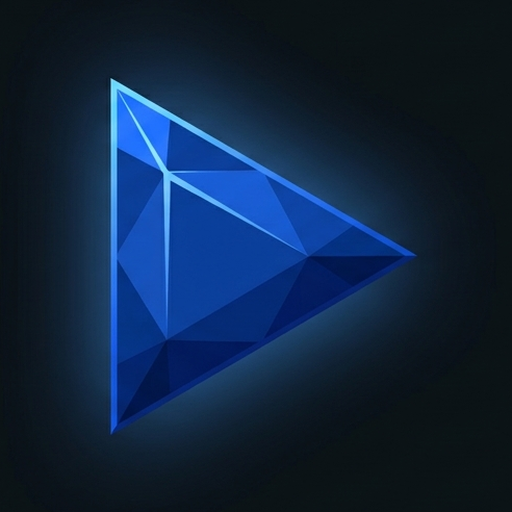
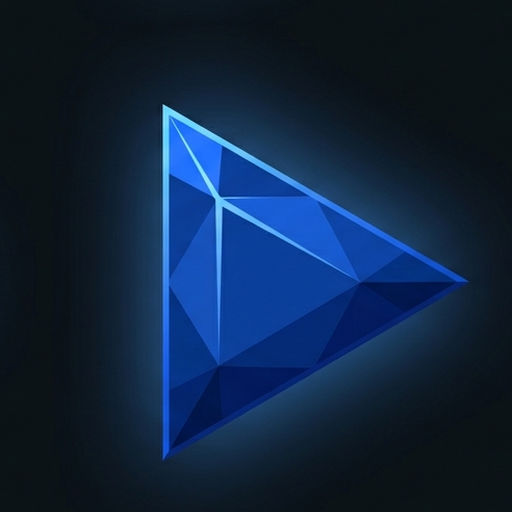
source citation: place over final 3s instead of fade-in at TITLE_SWAP
CREDIT_TAIL (default 3.0s) replaces the swap-timed citation in brand-overlays
and source-credit; cold-open title now owns the top banner uncontested at the
open and the citation lands on the closing beat.

diff --git a/CLAUDE.md b/CLAUDE.md
@@ -108,8 +108,8 @@ source video
         → broll-composite              (full-frame hard-cut cutaways onto the vertical clip, saliency-cropped not center; podcast audio continuous, no transition SFX by default — BROLL_SFX=1 re-enables a whoosh on each cutaway in/out)
         → burn-subtitles               (chunk-karaoke PNG overlay, RMS-aligned, burned ON TOP of the b-roll)
         → sfx-beats (comedy)           (Claude marks punchline/irony/insight beats → vine boom / record scratch / ding; zero beats on non-comedic clips → passthrough; SFX_COMEDY=0 skips)
-        → generate-title + title-transition (Claude title ≤7 words ALL-CAPS → animated COLD-OPEN title in the span's title_style, rendered in the TOP banner over the LIVE opening footage — no blocking card; the style's OWN matched SFX (slam=riser+boom, glitch=zaps, typewriter=keys, etc.) is mixed under the live audio, TITLE_SFX=0 disables — held until TITLE_SWAP then handed off to the source citation)
-        → brand-overlays               (source-credit TOP chyron y≈4%, fading IN at TITLE_SWAP so the cold-open title owns the top banner first + @C0BALT_CUT watermark y≈97.5% composited in ONE ffmpeg pass; falls back to the standalone source-credit → watermark two-pass path)
+        → generate-title + title-transition (Claude title ≤7 words ALL-CAPS → animated COLD-OPEN title in the span's title_style, rendered in the TOP banner over the LIVE opening footage — no blocking card; the style's OWN matched SFX (slam=riser+boom, glitch=zaps, typewriter=keys, etc.) is mixed under the live audio, TITLE_SFX=0 disables — held until TITLE_SWAP then clears via its own fade-out)
+        → brand-overlays               (source-credit TOP chyron y≈4%, appearing only in the FINAL CREDIT_TAIL seconds [default 3.0s] so it lands on the closing beat and the cold-open title owns the top banner uncontested + @C0BALT_CUT watermark y≈97.5% composited in ONE ffmpeg pass; falls back to the standalone source-credit → watermark two-pass path)
         → loudnorm                     (two-pass to -14 LUFS / -1.5 dBTP)
         → like-subscribe-overlay       (branded CTA — gem avatar + @C0BALT_CUT — ~4s within the FIRST THIRD of the clip + bell SFX)
         → pick-mood + bg-music         (Claude picks ./songs/<mood>/ from clip transcript; bed at ~-18dB, last 5 picks blacklisted via ./songs/.recent)
@@ -132,7 +132,7 @@ source video
 - `broll-pick` anchors are CONTEXTUAL/scene-level, not literal keyword objects — footage must match the story's tone (a tense "red dot" beat wants a sniper/laser sight, NOT a cat laser toy). Vision verify is given the spoken context and rejects literal-but-wrong matches. Aim dense (~6-10 windows where a sensible visual exists). B-roll files are namespaced per clip (`<clip>_broll_NN.<ext>`) in the shared `broll/` dir — NEVER reuse bare `broll_NN.mp4` slot names across spans (cross-span contamination bug).
 - `broll-pick` discovery uses the mcptube-bundled `yt-dlp` ytsearch, NOT `mcptube discover` (the latter needs an LLM API key the stack forbids). Vision verify via Claude; candidate prep (ingest + frame grids) runs CONCURRENTLY and verification is BATCHED — up to `BROLL_BATCH` (default 4) candidates judged per vision round-trip, with `BROLL_VISION_CAP` (default 16) bounding total candidates judged, not calls. Each window gets at most 2 query attempts (original + one literal↔metaphorical rewrite; rewrites are also batched into one call).
 - `broll-cleanup` runs exactly ONCE at end of run, evicting only `video_id`s in each `broll_plan.json`'s `ingested_video_ids` — never the podcast source. It must never modify or delete `broll_plan.json`.
-- `title-transition` is mandatory and runs AFTER `burn-subtitles`, BEFORE the brand overlays. It is a COLD OPEN, NOT a card: the styled title animates in the TOP banner zone (anchor `TITLE_ANCHOR_FRAC`, default 0.135) OVER the live opening footage so frame 1 is content (a face mid-sentence), never a blocking title card — this is the swipe-rate / "Stayed to Watch" fix. Each style carries its OWN matched SFX (slam=riser+boom, typewriter=key clicks, glitch=zaps, bounce=pops+boing, cinematic=swell+thump) — `styles.py` emits the `events.json` cue list and `sfx.py` synthesizes it, mixed UNDER the live audio so the title's sound matches its animation (`TITLE_SFX=0` disables). The old card-era full-screen riser/boom-over-a-blocking-card is gone — this is the animation's own sound, not a card stinger. NO full-frame bg treatment (the old flash/shake/dim shook the live shot). The title holds until `TITLE_SWAP` (default 2.0s, the per-style `dur`) and clears via its own fade-out; `brand-overlays` (and the standalone `source-credit` fallback) then fade the source citation INTO that same top slot at `TITLE_SWAP` so the two time-share the banner. The title text comes from `generate-title`; the animation style comes from the span's `title_style`, assigned by `pick-title-styles` (default `slam` when absent). Five styles — slam (hype), typewriter (true crime), glitch (tech), bounce (comedy), cinematic (documentary) — each a PIL frame sequence. A sixth `news` style was prototyped and CUT after review — do not resurrect it. `pick-title-styles` is best-effort/non-fatal: on any failure spans fall back deterministically and the run continues.
+- `title-transition` is mandatory and runs AFTER `burn-subtitles`, BEFORE the brand overlays. It is a COLD OPEN, NOT a card: the styled title animates in the TOP banner zone (anchor `TITLE_ANCHOR_FRAC`, default 0.135) OVER the live opening footage so frame 1 is content (a face mid-sentence), never a blocking title card — this is the swipe-rate / "Stayed to Watch" fix. Each style carries its OWN matched SFX (slam=riser+boom, typewriter=key clicks, glitch=zaps, bounce=pops+boing, cinematic=swell+thump) — `styles.py` emits the `events.json` cue list and `sfx.py` synthesizes it, mixed UNDER the live audio so the title's sound matches its animation (`TITLE_SFX=0` disables). The old card-era full-screen riser/boom-over-a-blocking-card is gone — this is the animation's own sound, not a card stinger. NO full-frame bg treatment (the old flash/shake/dim shook the live shot). The title holds until `TITLE_SWAP` (default 2.0s, the per-style `dur`) and clears via its own fade-out, owning the top banner uncontested at the open; `brand-overlays` (and the standalone `source-credit` fallback) place the source citation in that same top slot only in the FINAL `CREDIT_TAIL` seconds (default 3.0s) so it lands on the closing beat rather than time-sharing the open. The title text comes from `generate-title`; the animation style comes from the span's `title_style`, assigned by `pick-title-styles` (default `slam` when absent). Five styles — slam (hype), typewriter (true crime), glitch (tech), bounce (comedy), cinematic (documentary) — each a PIL frame sequence. A sixth `news` style was prototyped and CUT after review — do not resurrect it. `pick-title-styles` is best-effort/non-fatal: on any failure spans fall back deterministically and the run continues.
 - `bookend-trim` runs AFTER `verify-coherence` and BEFORE `cut-clip`. It snaps each span's `[t0, t1]` to a clean sentence boundary so shorts don't end mid-sentence (whisper output has punctuation stripped, so Claude infers boundaries — heuristics on `.!?` won't work).
 - `like-subscribe-overlay` runs AFTER `loudnorm` and BEFORE `bg-music`. It overlays a branded animated CTA (channel gem avatar + @C0BALT_CUT handle + subscribe/like/bell choreography) for ~4s WITHIN THE FIRST THIRD of the clip — start clamped so the CTA ends by the 1/3 mark, floored after the ~2.5s title card — so viewers who drop off early never miss it. `like-subscribe-overlay.sh <in> <out> [dur=4.0] [pos=0.15]`.
 - `end-card` runs AFTER `bg-music` and BEFORE `qc-clip`. It fades a closing CTA banner ("FOLLOW FOR MORE" + @C0BALT_CUT, Platinum/Sapphire Impact) over the LAST ~2.5s of the finished short so it lands on an intentional beat instead of dead-stopping on a dangling word — the "ends abruptly / no loop or CTA" retention fix. It is TIMELINE-PRESERVING (overlay only; audio stream-copied, duration identical) and centered at `END_CARD_Y_FRAC` (default 0.60), above the caption band. Deterministic, non-fatal (passthrough on failure), `END_CARD=0` skips.
@@ -142,7 +142,7 @@ source video
 - The caption/accent blue everywhere (burn-subtitles active word, title-transition accent word, source-credit label, watermark zero, CTA accent) is Sapphire Glow `#2E6BFF` from `brand/BRAND.md` — matched to the channel pfp/banner gem. Electric cyan `#00E5FF` is retired; reintroducing it is a regression. All overlay text is Impact (`/System/Library/Fonts/Supplemental/Impact.ttf`) with a thick black stroke.
 - Final shorts are named from the title: `name-short` slugs `generate-title`'s output into `<kebab-title>.mp4`, and `save-local` puts it in `output/<source-title-slug>/`. Generic `short_NN.mp4` names in output/ = the orchestrator forgot to pass the name through.
 - If `start.sh`/`shorts.sh` does not invoke every skill above in the listed order, the entrypoint is wrong — fix the entrypoint, do not silently skip skills.
-- Verify after a run: every saved `output/<source-slug>/*.mp4` must be 1080x1920 (full-bleed punch-in, NO blur bars), open with a COLD-OPEN top-banner title over live footage for ~2s (NOT a blocking centered card; the title carries its own style-matched SFX) that hands off to the source citation, AND have a CTA card for ~4s landing within the first third of the clip. If any is missing, the pipeline regressed.
+- Verify after a run: every saved `output/<source-slug>/*.mp4` must be 1080x1920 (full-bleed punch-in, NO blur bars), open with a COLD-OPEN top-banner title over live footage for ~2s (NOT a blocking centered card; the title carries its own style-matched SFX), show the source citation in the top banner over the FINAL ~3s, AND have a CTA card for ~4s landing within the first third of the clip. If any is missing, the pipeline regressed.
 - `zoom-punch` runs AFTER `fill-vertical` and BEFORE `broll-pick`/`broll-composite`/`burn-subtitles` — cutaways replace the full frame and captions must not wobble, so the punch zooms only ever touch the clean vertical. Deterministic (no Claude), non-fatal (failure → unzoomed passthrough), `ZOOM_PUNCH=0` disables.
 - `switch-faces` runs AFTER `zoom-punch`/`chunk-captions` and BEFORE `broll-pick` (on the clean vertical, before cutaways/captions). It manufactures cut-to-listener reaction shots: at phrase boundaries (chunk-caption ends — the semantic pause, since `tighten-pace` has already collapsed every raw audio gap to ~0.08-0.15s) it hard-cuts to a NON-speaking second face cropped from the 16:9 source for ~0.8-1.2s, then back. It reuses `fill-vertical`'s face detection + identity clustering, and fires ONLY on a TRUE two-shot — a frame where the dominant speaker AND a non-dom face co-occur — so single-interview/talking-head footage (where identity drift would otherwise spawn spurious "second" identities) passes through untouched. CRITICAL: TIMELINE-PRESERVING — it overlays the listener crop onto the base via `enable=between(t,…)`, audio is stream-copied and duration is identical, so every downstream timestamp stays valid. Deterministic (no Claude), non-fatal (failure / no two-shot / no chunks → passthrough), `SWITCH_FACES=0` disables. The cut-to-listener counterpart to `jump-cut`'s same-speaker reframes and `zoom-punch`'s same-speaker punches.
 - `jump-cut` runs AFTER `fill-vertical` and BEFORE `zoom-punch` (both touch only the clean vertical, before cutaways and captions). It manufactures "multi-cam" visual churn on static talking-head stretches: it tiles the clip into ~3.2s segments at word-start boundaries and hard-cuts between a base framing and tighter ~1.1-1.16x punch-in reframings of the SAME speaker (the cold-open lead + the tail stay base). It is the visual-change-density lever for sources where b-roll stays sparse — b-roll cutaways later override their own windows and captions burn on top, so neither warps. CRITICAL: it is TIMELINE-PRESERVING — audio is copied untouched and total duration is identical, so every downstream timestamp (captions, b-roll windows) stays valid; it adds cuts, never trims. Deterministic (no Claude), non-fatal (failure → passthrough), `JUMP_CUT=0` disables.
@@ -176,7 +176,7 @@ Per-span files chain as `clip_NN.<stage>`: `.mp4` (cut) → `.transcript.json` (
 
 ## Environment
 
-`.env` holds source-of-truth paths (never hardcode): `WHISPER_BIN`, `WHISPER_MODEL`, `OUTPUT_DIR`. Runtime knobs: `SHORTS_N` / `SHORTS_DMIN` / `SHORTS_DMAX` (span count + source-selection duration bounds; defaults 5 / 28 / 55), `SHORTS_MAX_PAR` (parallel spans, default 1), `SHORTS_ENCODER` (`videotoolbox`|`x264`) via `_lib/encode.sh`, `BROLL_VISION_CAP` (default 16, counts candidates judged) / `BROLL_BATCH` (candidates per vision call, default 4), `BROLL_PICK=0` / `VERIFY_BOOKENDS=0` / `VERIFY_COMPLETENESS=0` / `ZOOM_PUNCH=0` / `JUMP_CUT=0` / `SWITCH_FACES=0` / `SFX_COMEDY=0` / `BROLL_SFX=0` / `TITLE_SFX=0` / `END_CARD=0` / `VISUAL_CADENCE=0` (disable those steps; `TITLE_SFX=0` mutes the title's style-matched animation SFX), `JUMP_CUT_SEG` / `JUMP_CUT_MAX_GAP` / `JUMP_CUT_MIN` (jump-cut rhythm 3.2s / max static gap 5s / min clip 13s; cut count is coverage-driven — `JUMP_CUT_MAX` is an optional hard cap, unset = cover the clip), `END_CARD_DUR` (closing-beat length, default 2.5s) / `MAX_STATIC_GAP` (visual-cadence WARN threshold, default 5s) / `VCAD_SCENE` (scene-detect threshold, default 0.3), `SWITCH_SEG` / `SWITCH_SPACING` / `SWITCH_FACE_FRAC` (switch-faces fallback rhythm 6s / min 5s between cuts / listener crop tightness 0.40), `RLM_TOPICS` (`1` forces rlm-assisted segment-topics, `0` forces single-prompt; unset = auto above `RLM_TOPICS_MIN_SEC`, default 1500s) / `RLM_TOPICS_CHUNK_SEC` (rlm chunk window, default 600s), `TITLE_SWAP` (cold-open title hold / citation hand-off point in seconds, default 2.0; shared by title-transition + brand-overlays + source-credit) / `TITLE_ANCHOR_FRAC` (title top-banner vertical anchor as a fraction of height, default 0.135), `MCPTUBE_URL` (default `http://127.0.0.1:9093/mcp`), `PANE_TICK` / `PANE_TIMEOUT`, `SCOUT_PER_QUERY` / `SCOUT_SHORTLIST` / `SCOUT_MIN_VIEWS` / `SCOUT_DUR_MIN` / `SCOUT_DUR_MAX` (scout-sources).
+`.env` holds source-of-truth paths (never hardcode): `WHISPER_BIN`, `WHISPER_MODEL`, `OUTPUT_DIR`. Runtime knobs: `SHORTS_N` / `SHORTS_DMIN` / `SHORTS_DMAX` (span count + source-selection duration bounds; defaults 5 / 28 / 55), `SHORTS_MAX_PAR` (parallel spans, default 1), `SHORTS_ENCODER` (`videotoolbox`|`x264`) via `_lib/encode.sh`, `BROLL_VISION_CAP` (default 16, counts candidates judged) / `BROLL_BATCH` (candidates per vision call, default 4), `BROLL_PICK=0` / `VERIFY_BOOKENDS=0` / `VERIFY_COMPLETENESS=0` / `ZOOM_PUNCH=0` / `JUMP_CUT=0` / `SWITCH_FACES=0` / `SFX_COMEDY=0` / `BROLL_SFX=0` / `TITLE_SFX=0` / `END_CARD=0` / `VISUAL_CADENCE=0` (disable those steps; `TITLE_SFX=0` mutes the title's style-matched animation SFX), `JUMP_CUT_SEG` / `JUMP_CUT_MAX_GAP` / `JUMP_CUT_MIN` (jump-cut rhythm 3.2s / max static gap 5s / min clip 13s; cut count is coverage-driven — `JUMP_CUT_MAX` is an optional hard cap, unset = cover the clip), `END_CARD_DUR` (closing-beat length, default 2.5s) / `MAX_STATIC_GAP` (visual-cadence WARN threshold, default 5s) / `VCAD_SCENE` (scene-detect threshold, default 0.3), `SWITCH_SEG` / `SWITCH_SPACING` / `SWITCH_FACE_FRAC` (switch-faces fallback rhythm 6s / min 5s between cuts / listener crop tightness 0.40), `RLM_TOPICS` (`1` forces rlm-assisted segment-topics, `0` forces single-prompt; unset = auto above `RLM_TOPICS_MIN_SEC`, default 1500s) / `RLM_TOPICS_CHUNK_SEC` (rlm chunk window, default 600s), `TITLE_SWAP` (cold-open title hold in seconds, default 2.0; title-transition) / `CREDIT_TAIL` (source citation appears over the FINAL N seconds, default 3.0; brand-overlays + source-credit) / `TITLE_ANCHOR_FRAC` (title top-banner vertical anchor as a fraction of height, default 0.135), `MCPTUBE_URL` (default `http://127.0.0.1:9093/mcp`), `PANE_TICK` / `PANE_TIMEOUT`, `SCOUT_PER_QUERY` / `SCOUT_SHORTLIST` / `SCOUT_MIN_VIEWS` / `SCOUT_DUR_MIN` / `SCOUT_DUR_MAX` (scout-sources).
 
 ## File Tree (jump here instead of running find/ls)
 

diff --git a/.claude/skills/brand-overlays/SKILL.md b/.claude/skills/brand-overlays/SKILL.md
@@ -1,6 +1,6 @@
 ---
 name: brand-overlays
-description: Composite both persistent brand PNGs — the top "Original video: <title>" credit chyron (y≈4%) and the bottom @C0BALT_CUT watermark (y≈97.5%) — onto a finished short in ONE ffmpeg pass. The credit fades IN at TITLE_SWAP (default 2.0s) so the cold-open title (title-transition) owns the top banner first, then hands the slot to the citation; the watermark holds the whole clip. Replaces the back-to-back source-credit + watermark re-encodes in the orchestrator (saves a full re-encode and an intermediate .mp4 per span); those two skills remain the standalone single-overlay ops and own the PNG renderers this skill reuses.
+description: Composite both persistent brand PNGs — the top "Original video: <title>" credit chyron (y≈4%) and the bottom @C0BALT_CUT watermark (y≈97.5%) — onto a finished short in ONE ffmpeg pass. The credit appears only in the FINAL CREDIT_TAIL seconds (default 3.0s) — it fades in at dur-tail and holds to the end so it lands on the closing beat, leaving the cold-open title to own the top banner uncontested at the open; the watermark holds the whole clip. Replaces the back-to-back source-credit + watermark re-encodes in the orchestrator (saves a full re-encode and an intermediate .mp4 per span); those two skills remain the standalone single-overlay ops and own the PNG renderers this skill reuses.
 ---
 
 # brand-overlays

diff --git a/.claude/skills/source-credit/SKILL.md b/.claude/skills/source-credit/SKILL.md
@@ -1,6 +1,6 @@
 ---
 name: source-credit
-description: Overlay a persistent "Original video: <title>" credit near the TOP of a finished short. Reads the source title from work/<id>/ingest.json and renders it as a transparent PNG via PIL; ffmpeg composites it for the whole clip duration. Positioned at the top so it sits above the captions (lower third) and clear of the centered title card. Runs after title-transition and before loudnorm in the per-span chain.
+description: Overlay a persistent "Original video: <title>" credit near the TOP of a finished short. Reads the source title from work/<id>/ingest.json and renders it as a transparent PNG via PIL; ffmpeg composites it only over the FINAL CREDIT_TAIL seconds (default 3.0s) so it lands on the closing beat. Positioned at the top so it sits above the captions (lower third) and clear of the centered title card. Runs after title-transition and before loudnorm in the per-span chain.
 allowed-tools: Bash
 user-invocable: true
 ---